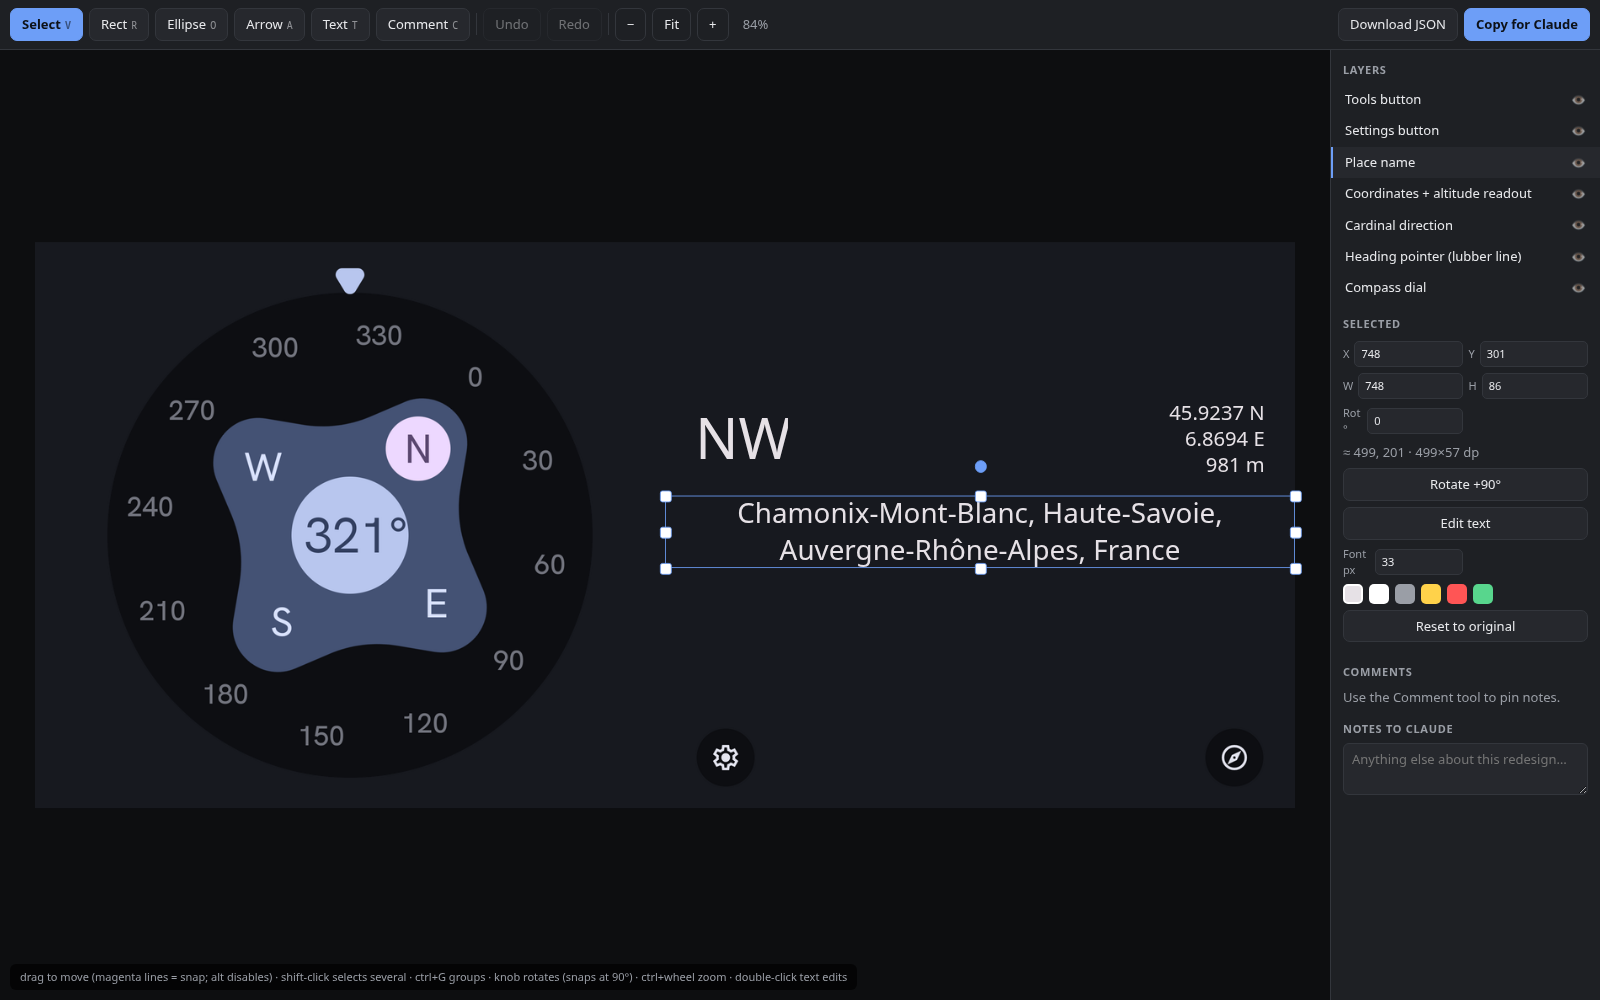
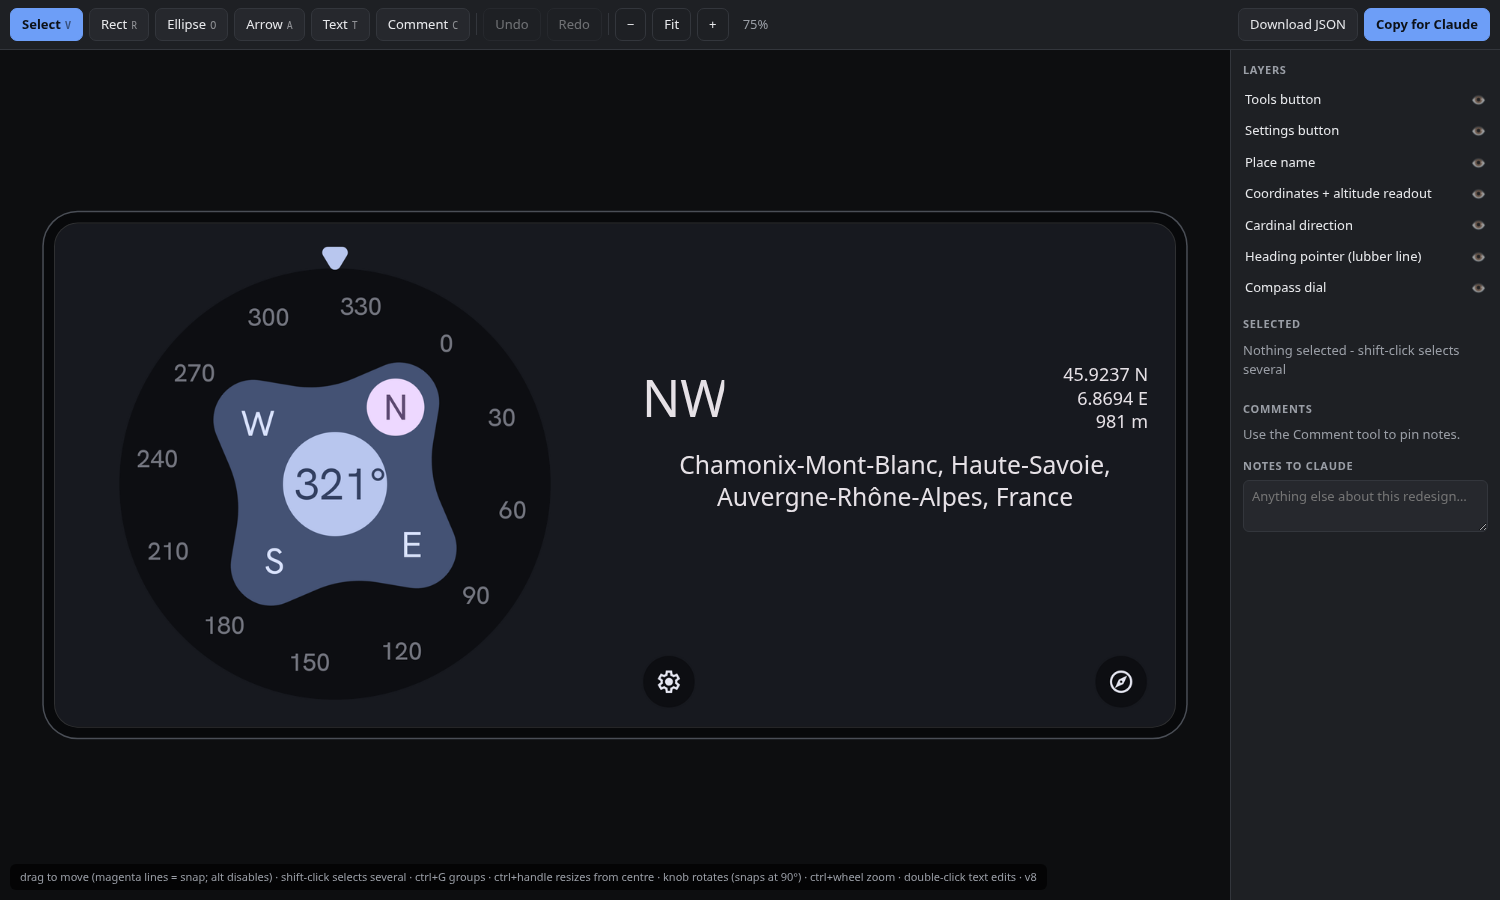
Editor: device frame around the screen
The scene now sits in a phone body with bezel and rounded corners, plus a
persistent screen-edge outline so the boundary stays readable when a layer
is dragged past it.

diff --git a/assets/editor_template.html b/assets/editor_template.html
@@ -259,10 +259,19 @@ function render() {
   world.style.transform = `translate(${view.x}px,${view.y}px) scale(${view.k})`;
   zPct.textContent = Math.round(view.k * 100) + '%';
   world.innerHTML = '';
+  const RAD = Math.min(SCENE.bg.w, SCENE.bg.h) * 0.045;   // screen corner radius
+  const BEZ = Math.max(8, Math.min(SCENE.bg.w, SCENE.bg.h) * 0.022);
+  const body = document.createElement('div');
+  body.style.cssText = `position:absolute;left:${-BEZ}px;top:${-BEZ}px;` +
+    `width:${SCENE.bg.w + BEZ * 2}px;height:${SCENE.bg.h + BEZ * 2}px;` +
+    `border-radius:${RAD + BEZ}px;background:#08090b;` +
+    `box-shadow:0 0 0 ${1.5 / view.k}px #4a4e56;pointer-events:none`;
+  world.appendChild(body);
   const bg = document.createElement(SCENE.bg.src ? 'img' : 'div');
   if (SCENE.bg.src) { bg.src = SCENE.bg.src; bg.draggable = false; }
   else bg.style.background = SCENE.bg.color || '#131316';
-  bg.style.cssText += `;position:absolute;left:0;top:0;width:${SCENE.bg.w}px;height:${SCENE.bg.h}px`;
+  bg.style.cssText += `;position:absolute;left:0;top:0;width:${SCENE.bg.w}px;` +
+    `height:${SCENE.bg.h}px;border-radius:${RAD}px`;
   world.appendChild(bg);
 
   for (const e of S.els) {
@@ -334,6 +343,11 @@ function render() {
       : `top:${g.v - 0.75 / view.k}px;left:${g.from}px;height:${1.5 / view.k}px;width:${g.to - g.from}px`);
     world.appendChild(d);
   }
+  const edge = document.createElement('div');
+  edge.style.cssText = `position:absolute;left:0;top:0;width:${SCENE.bg.w}px;` +
+    `height:${SCENE.bg.h}px;border-radius:${RAD}px;pointer-events:none;` +
+    `box-shadow:0 0 0 ${1 / view.k}px rgba(255,255,255,.16)`;
+  world.appendChild(edge);
   drawSel(); renderSide();
 }
 
@@ -872,7 +886,7 @@ vp.addEventListener('wheel', e => {
 
 function fit() {
   const r = vp.getBoundingClientRect();
-  view.k = Math.min((r.width - 70) / SCENE.bg.w, (r.height - 70) / SCENE.bg.h);
+  view.k = Math.min((r.width - 110) / SCENE.bg.w, (r.height - 110) / SCENE.bg.h);
   view.x = (r.width - SCENE.bg.w * view.k) / 2;
   view.y = (r.height - SCENE.bg.h * view.k) / 2;
   render();
